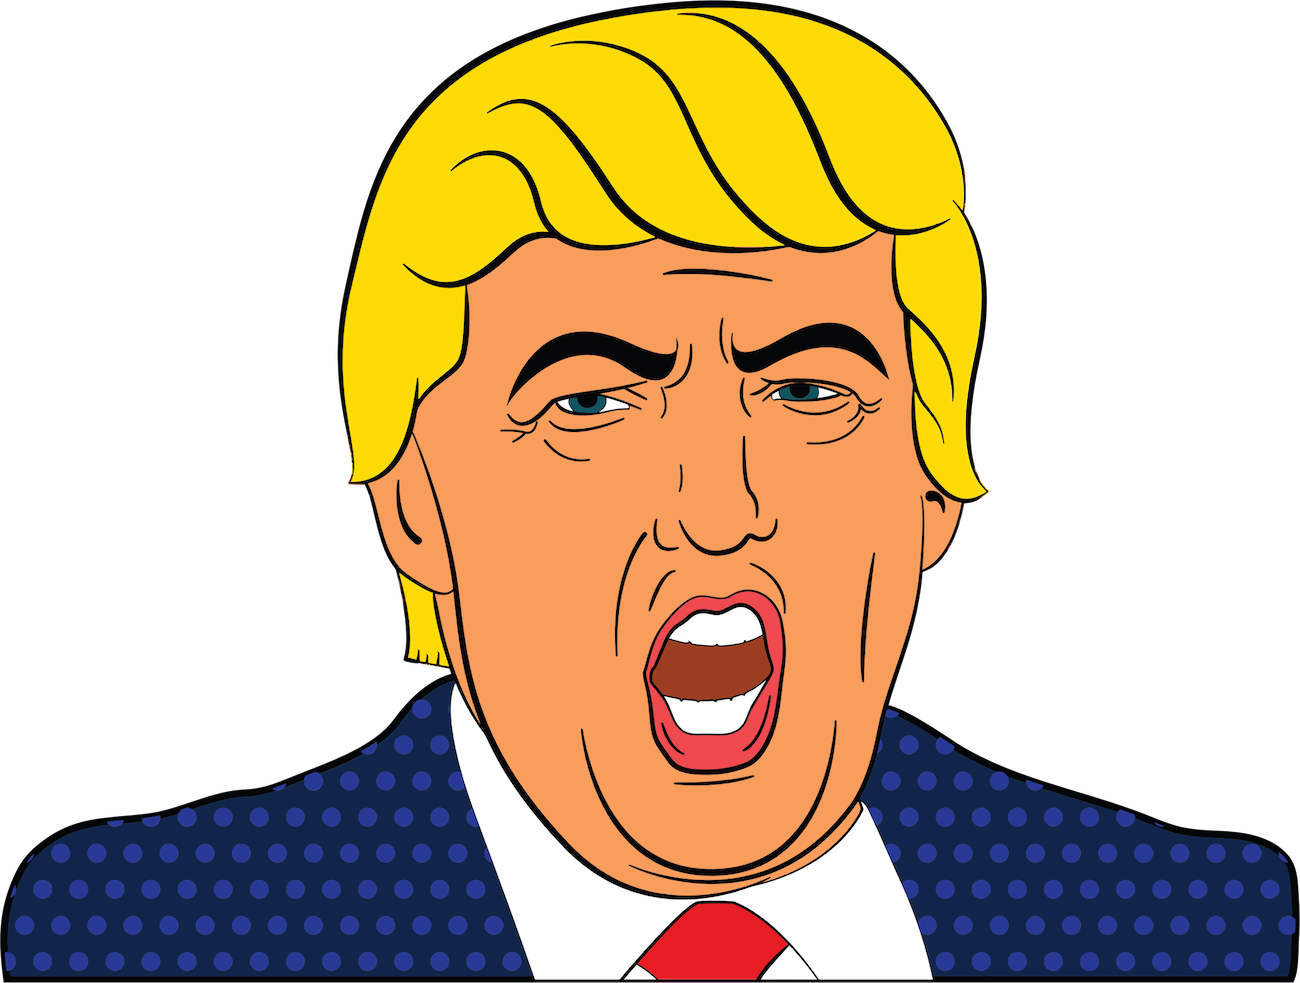
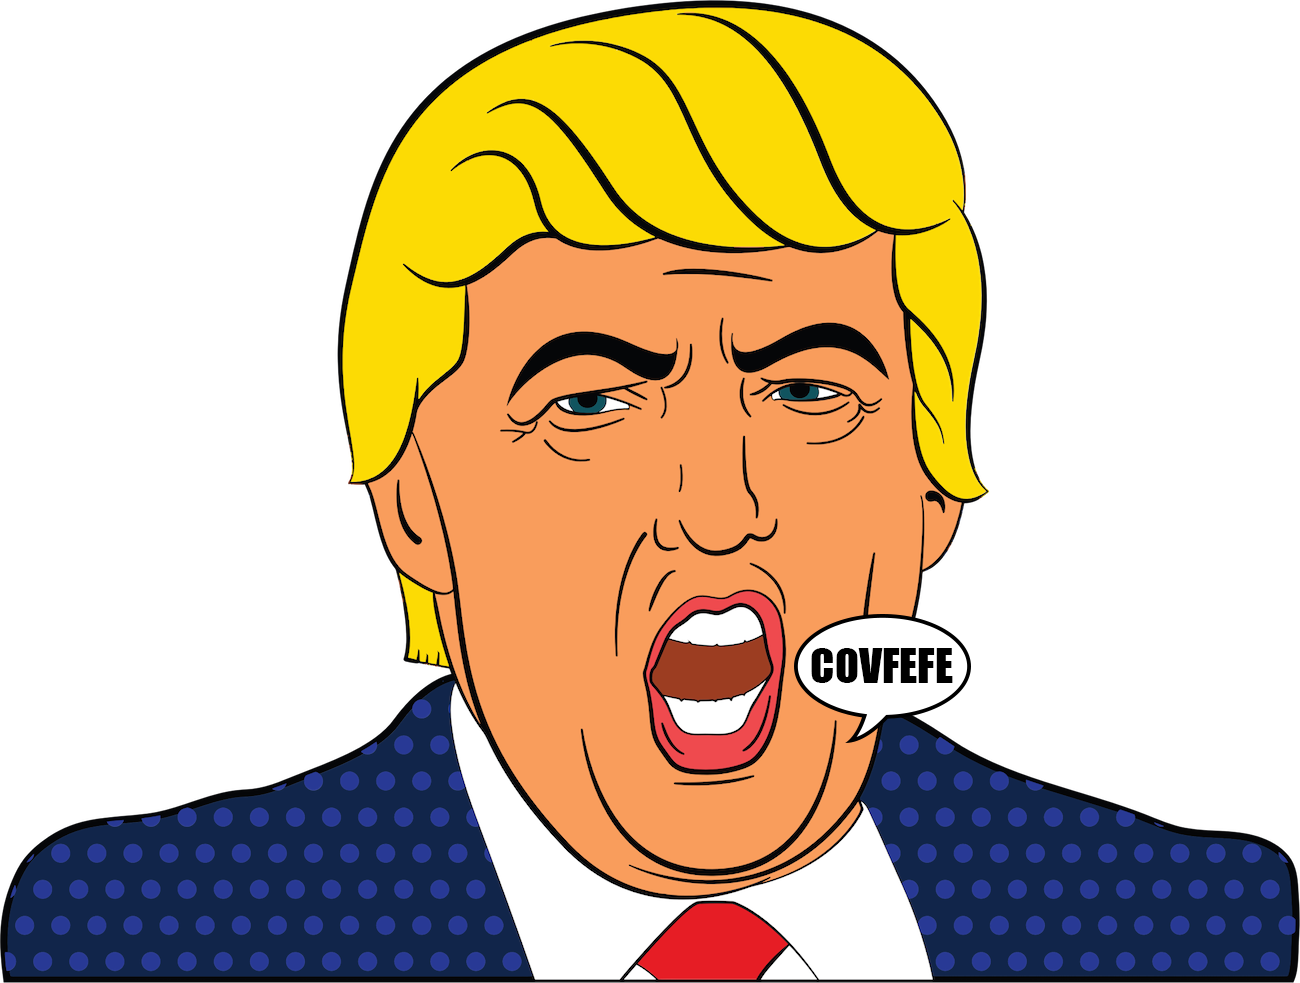
covfefe

Changed region(s): [[0.5846, 0.6104, 0.7692, 0.763]]

diff --git a/public/stylesheets/style.css b/public/stylesheets/style.css
@@ -17,7 +17,6 @@ ol {
 }
 li {
   font-style: impact;
-
 }
 .dot  {
   font-family: impact;
@@ -27,6 +26,10 @@ li {
   flex-direction: column;
   align-items:center;
   margin-left: 20px;
+}
+.twitter-timeline {
+  margin-left: 1000px;
+
 }
 .thescore {
   display: flex;
@@ -50,7 +53,7 @@ h1 {
   font-weight: 900;
 }
 h3 {
-  font-size: 100px;
+  font-size: 160px;
   font-family: impact;
   color: white;
 }
@@ -78,8 +81,8 @@ h6 {
   display: flex;
   justify-content: flex-start;
   align-items:center;
-  margin-top: 10px;
-  margin-left: 30px;
+  margin-top: 0px;
+  margin-left: 0px;
 }
 
 input {
